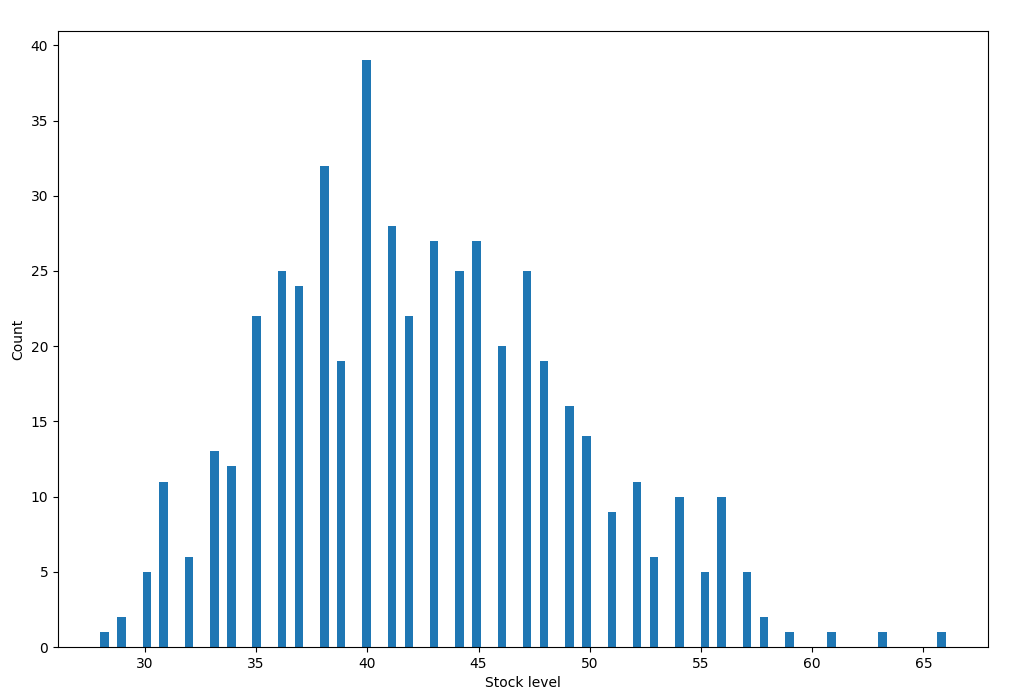
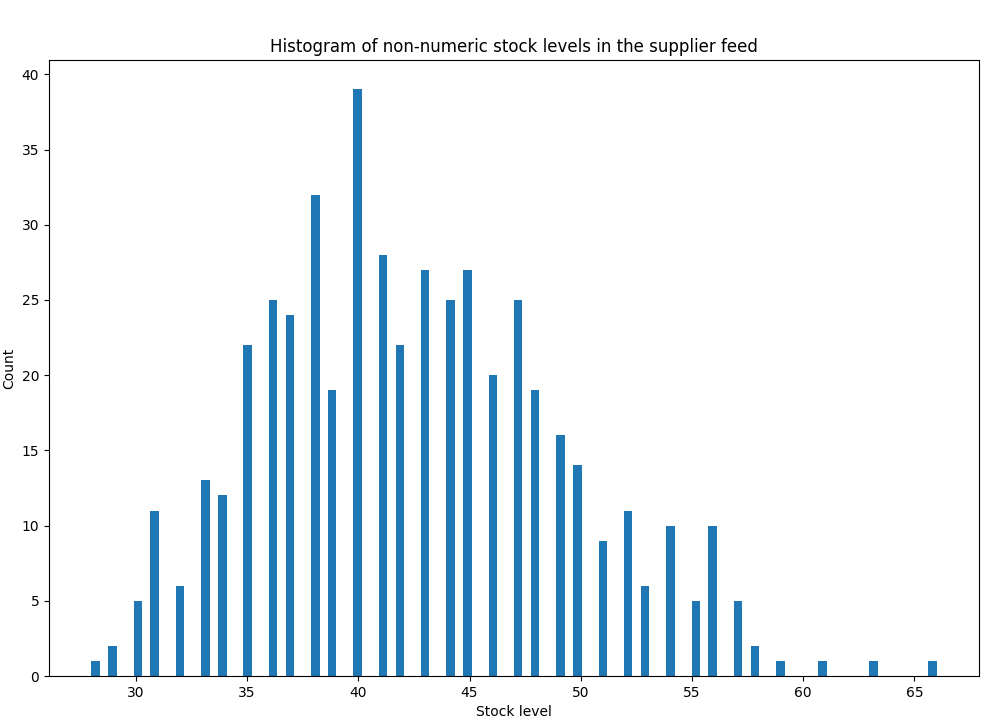
Implement task 3

diff --git a/src/transform_data.py b/src/transform_data.py
@@ -34,6 +34,7 @@ print('-'*100)
 numeric_stock_levels = stock_level_counts[~nonnumeric_stock_level_idx]
 
 plt.figure(figsize=(12, 8))
+plt.title('Histogram of non-numeric stock levels in the supplier feed')
 plt.hist(numeric_stock_levels, bins=100)
 plt.xlabel('Stock level')
 plt.ylabel('Count')

diff --git a/README.md b/README.md
@@ -20,6 +20,10 @@ Task 2.
 
 - Assuming `part_id` can be used as a primary key for the `product_metadata` table (i.e. only a single row per `part_id` are present)
 
+Task 3.
+
+- Assuming `category` names are uniform. For example, a Filter will always have a category of `Filters` and not `Filter`
+
 ## Figures
 
 Histogram of non-numeric stock levels in the supplier feed
